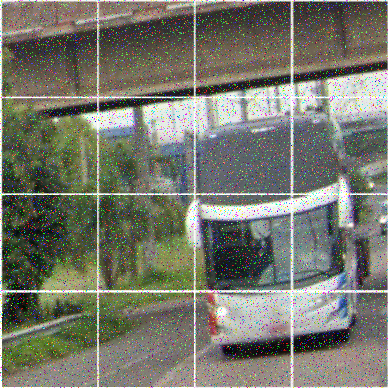
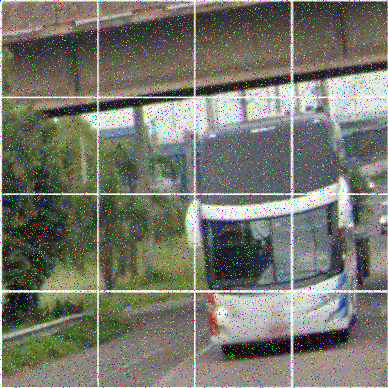
noise test

diff --git a/testing/noise.py b/testing/noise.py
@@ -1,0 +1,34 @@
+import cv2, os, random
+import numpy as np
+from copy import deepcopy
+
+for img in os.listdir("images/orig"):
+    image = cv2.imread("images/orig/" + img)
+    res = deepcopy(image)
+
+    # Salt and pepper noise
+    for x in range(image.shape[0]):
+        for y in range(image.shape[1]):
+            for z in range(image.shape[2]):
+                if random.random() < 0.1:
+                    res[x][y][z] =  random.randint(0, 255)
+    cv2.imwrite("images/attack/random/" + img, res)
+
+    # Gaussian noise
+    # mean = 0
+    # var = 1000
+    # sigma = var ** 0.5
+    # gauss = np.random.normal(mean, sigma, (image.shape[0], image.shape[1], image.shape[2]))
+    # gauss = gauss.reshape(image.shape[0], image.shape[1], image.shape[2])
+    # res = res + gauss
+    # cv2.imwrite("images/attack/gaussian/" + img, res)
+
+    # Shot noise
+    # for x in range(image.shape[0]):
+    #     for y in range(image.shape[1]):
+    #         for z in range(image.shape[2]):
+    #             if random.random() < 0.1:
+    #                 res[x][y][z] = 0
+    # cv2.imwrite("images/attack/shot/" + img, res)
+
+    print("Done with " + img)
